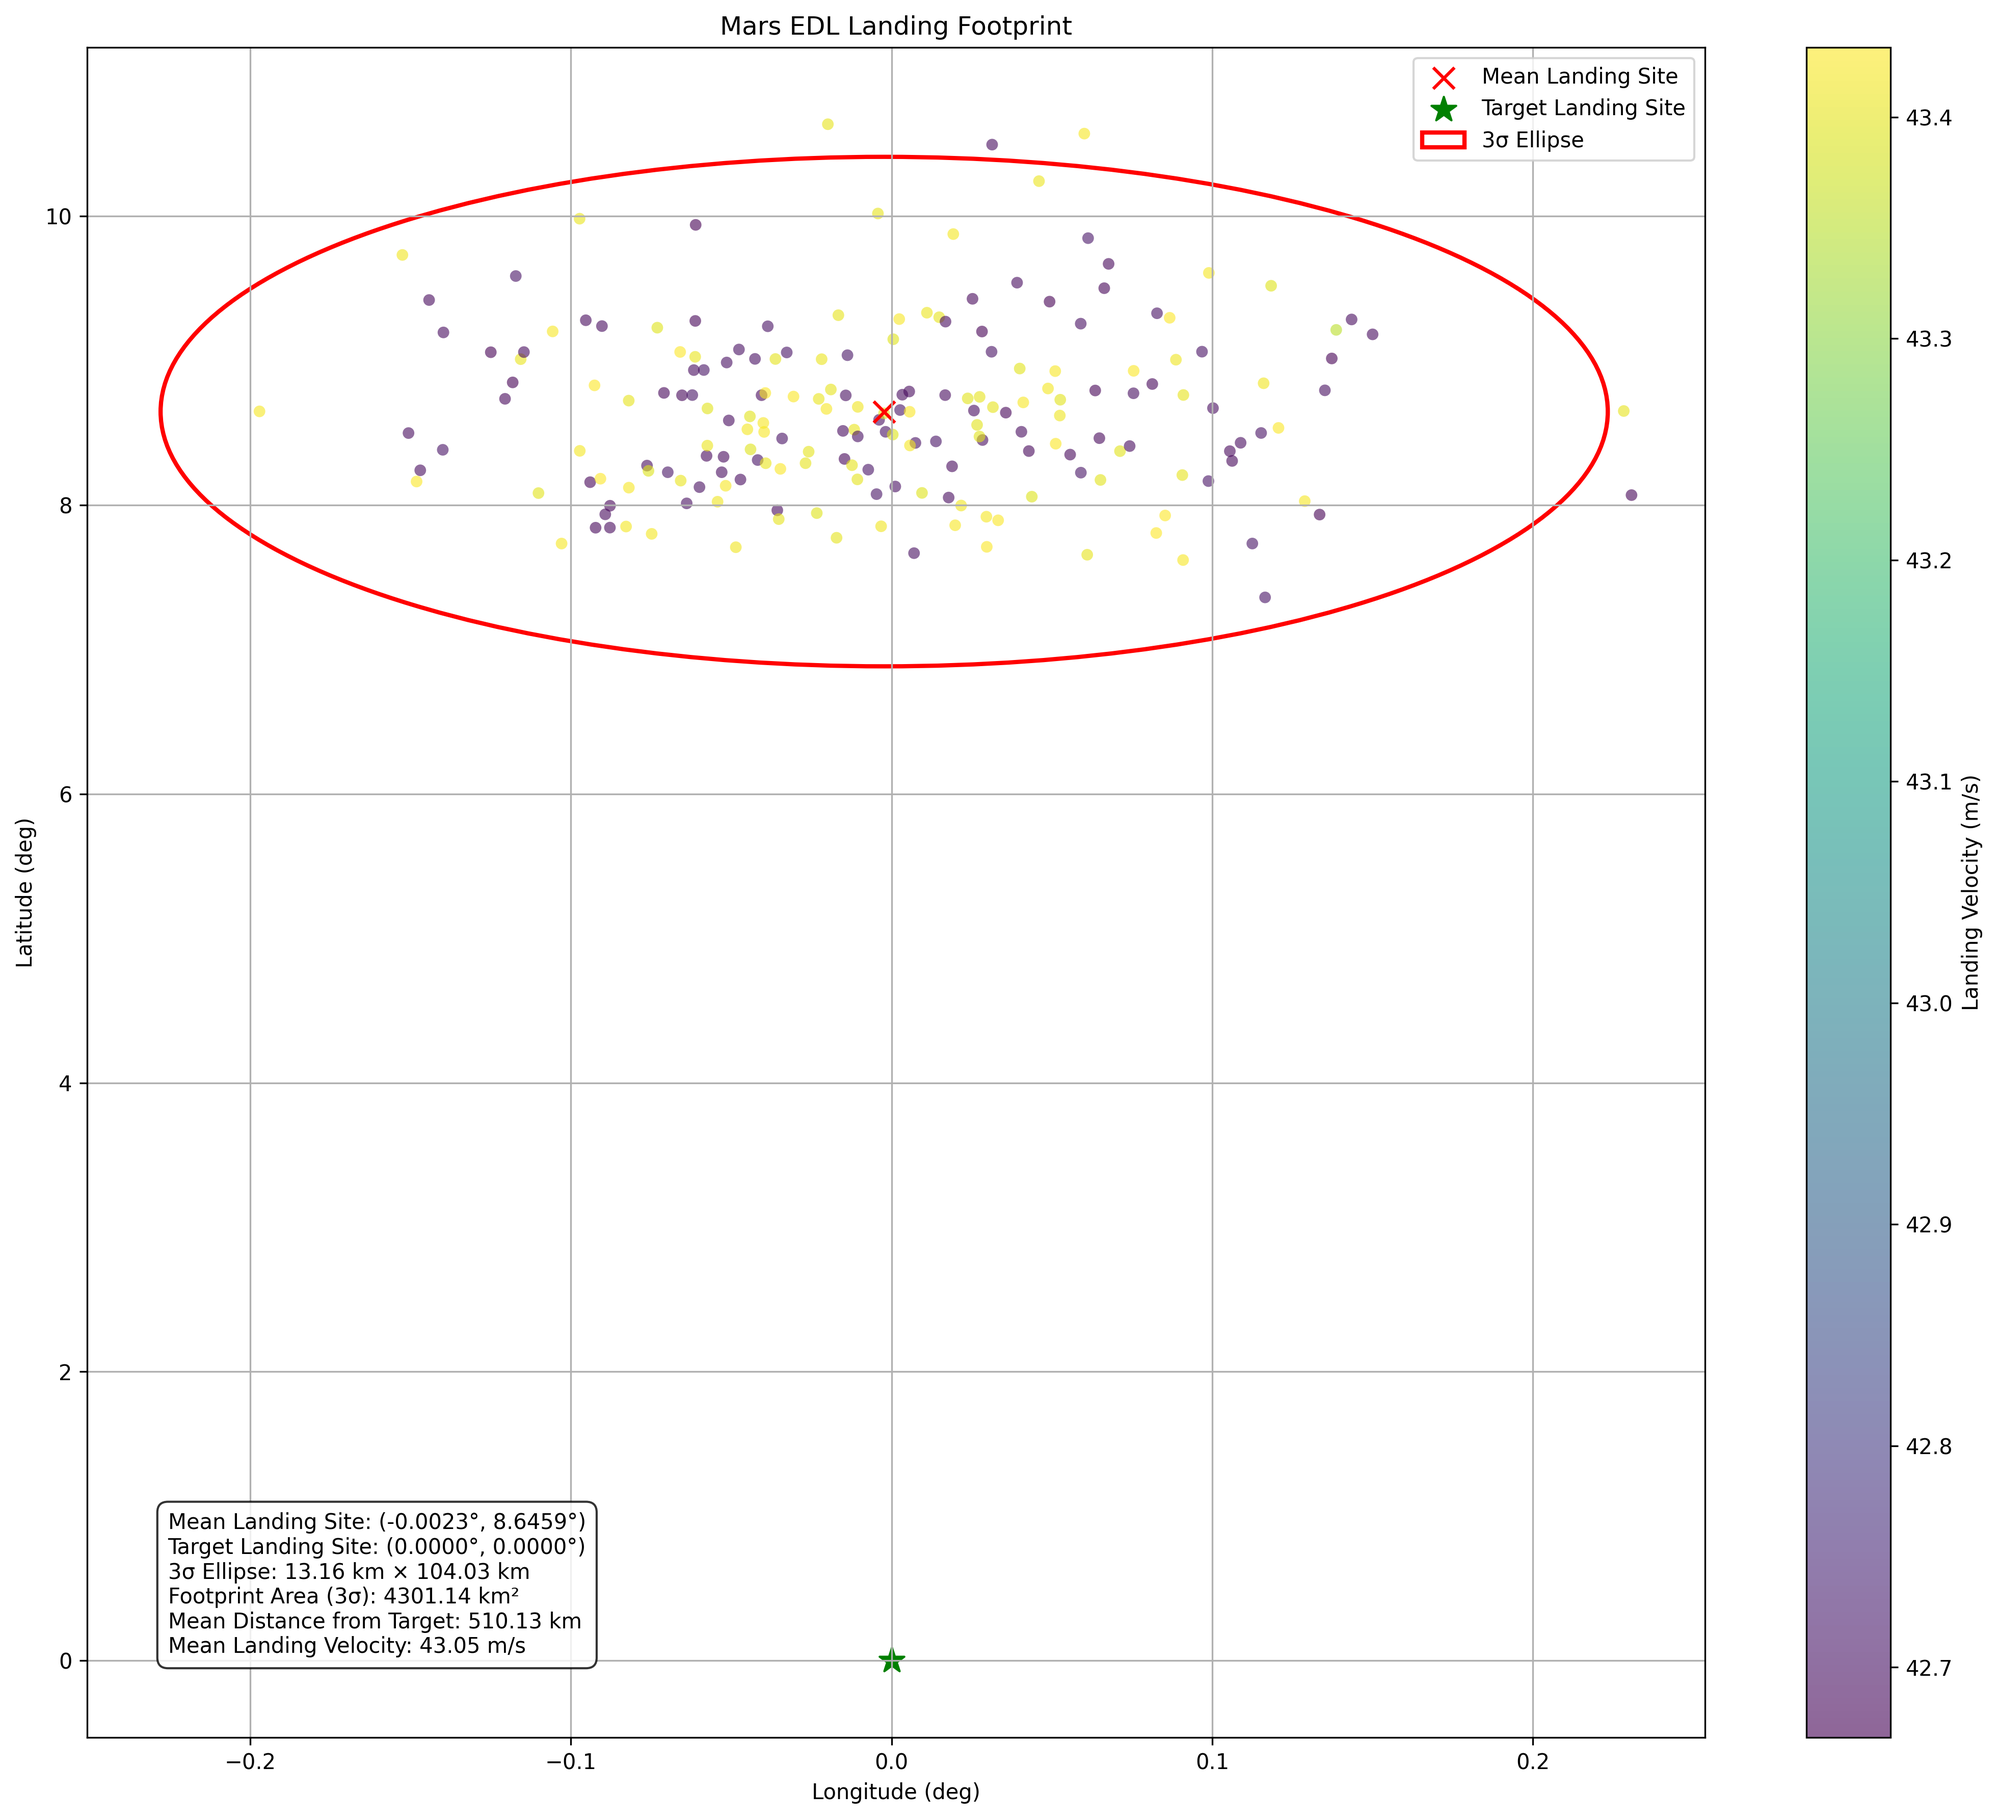
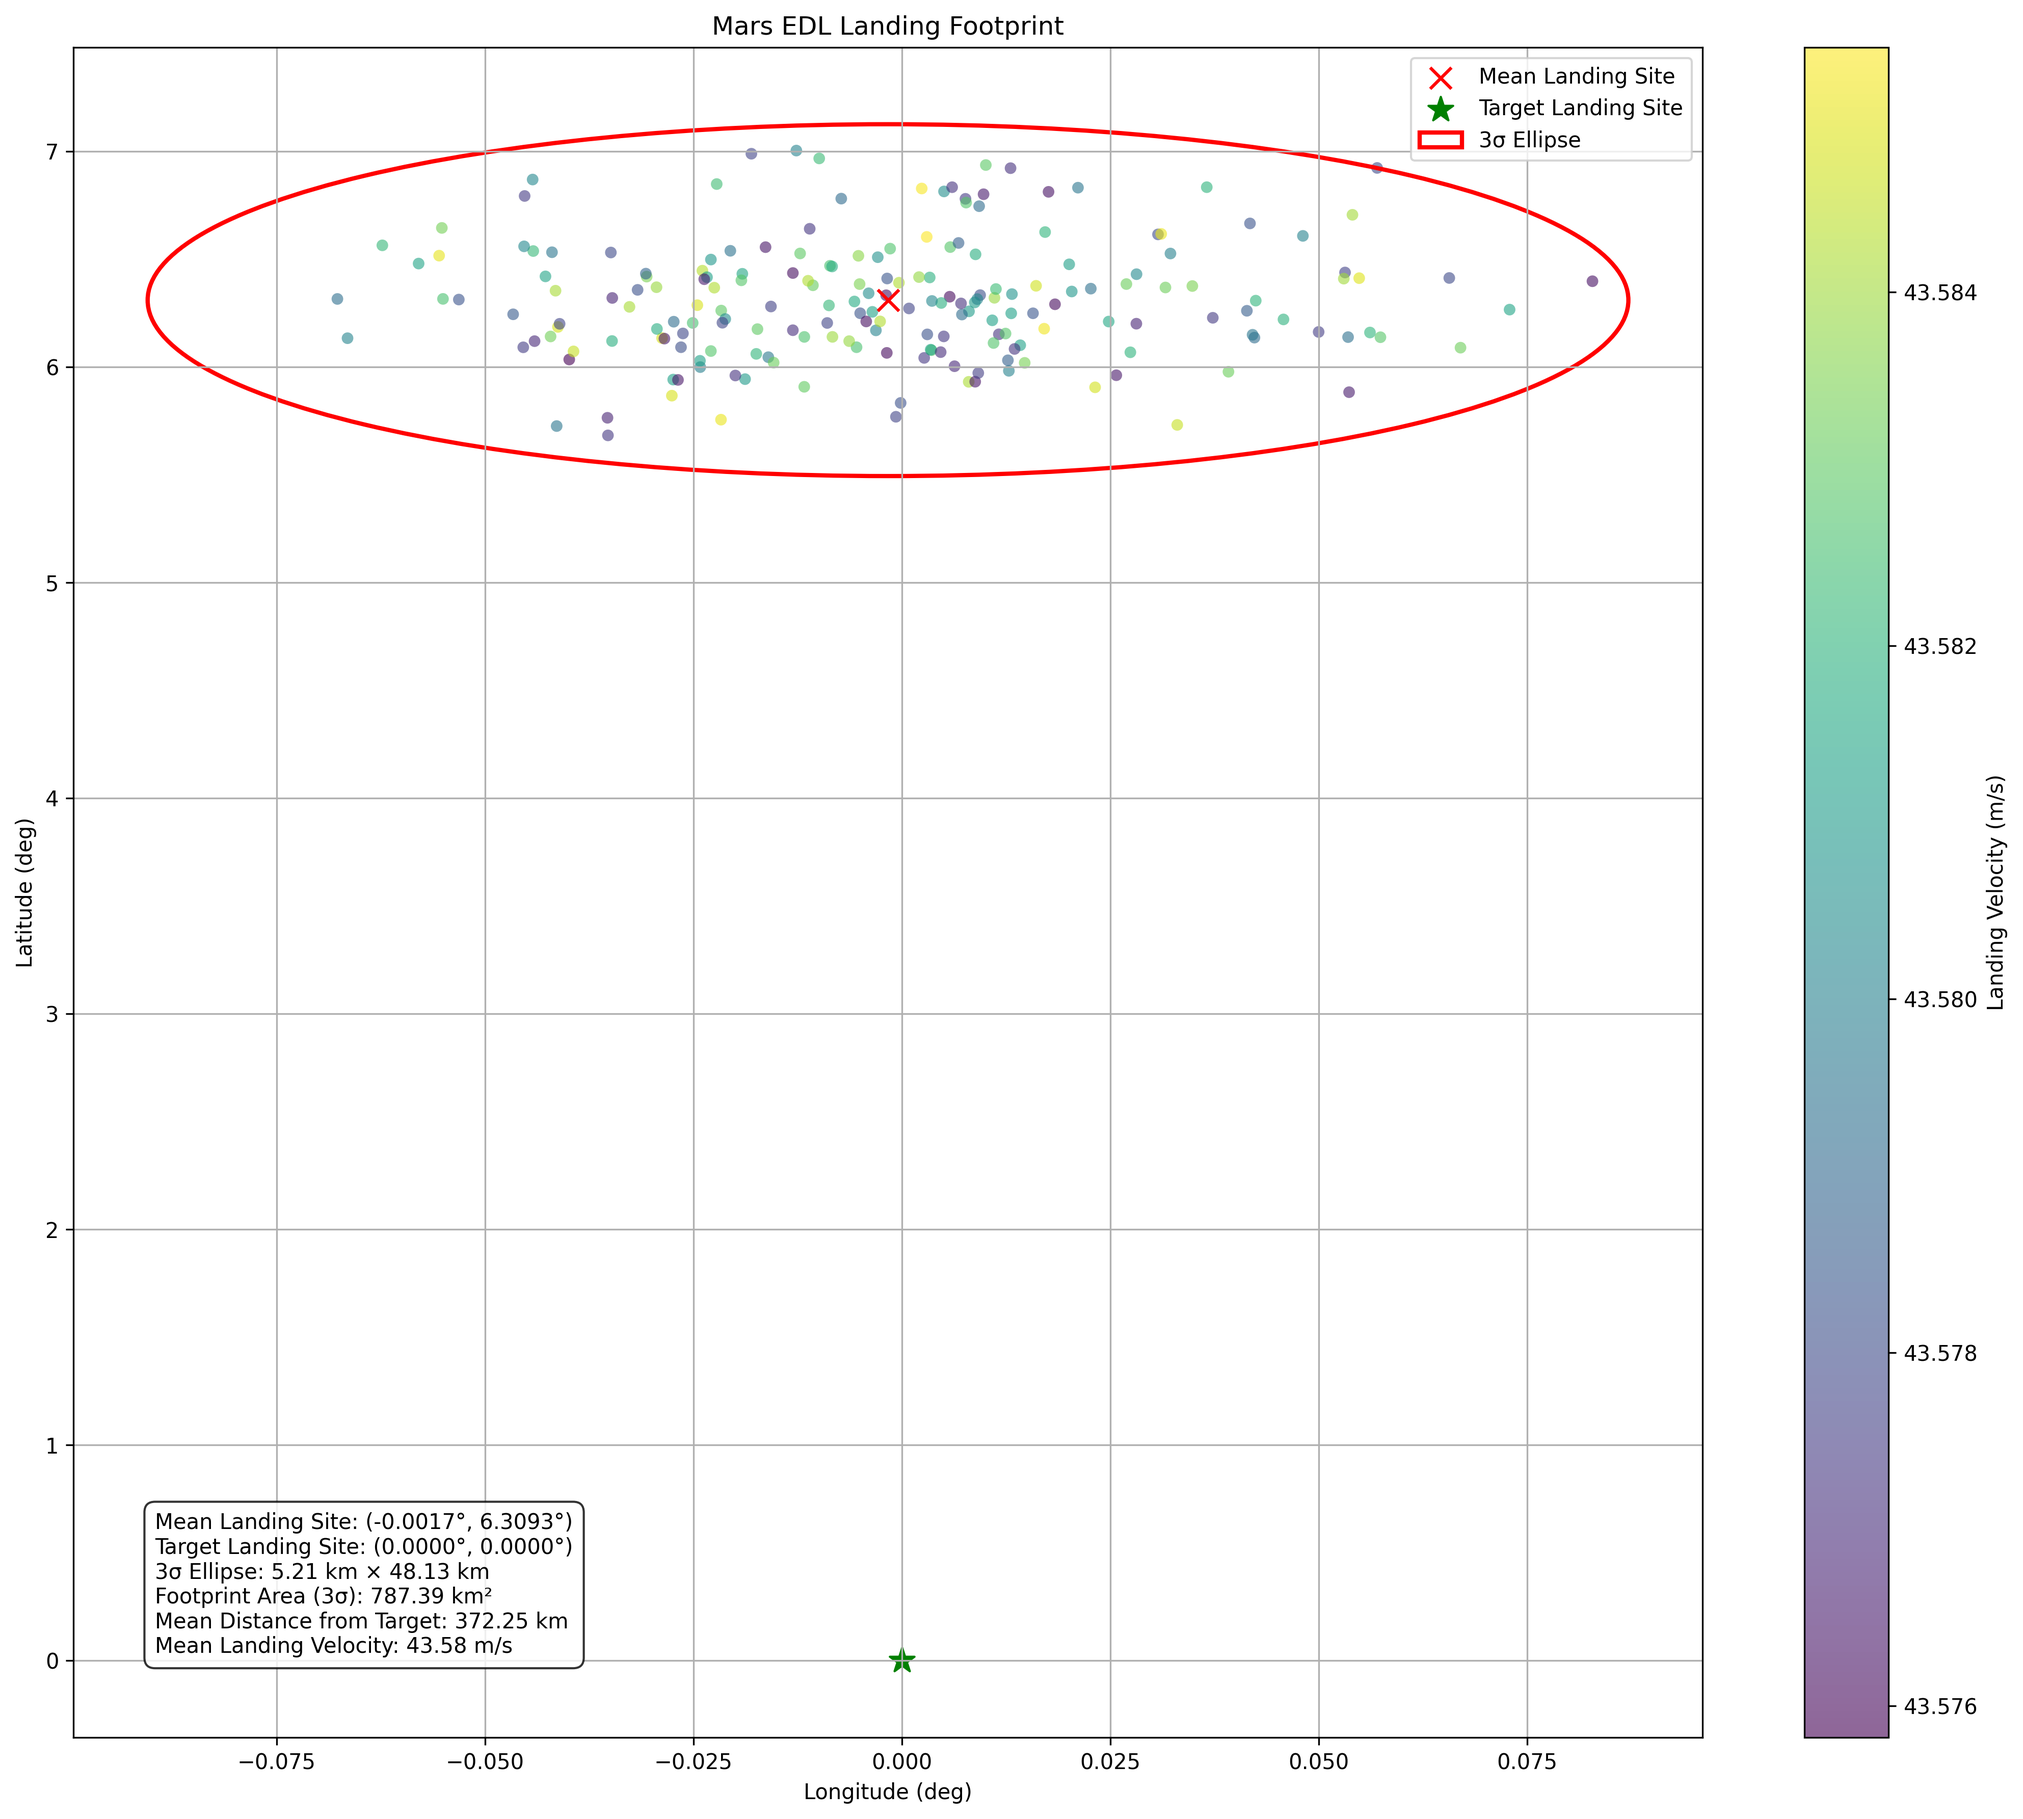
Updting the code and final outputs.

diff --git a/mars_edl_analysis.py b/mars_edl_analysis.py
@@ -77,6 +77,22 @@ class MarsEDLAnalysis:
             print("ASSESSMENT: MODERATE RISK - EDL parameters may need adjustment for improved safety margin.")
         else:
             print("ASSESSMENT: HIGH RISK - EDL parameters should be reconsidered for mission safety.")
+    
+    def calculate_acceleration(self, velocity: np.ndarray, time: np.ndarray) -> np.ndarray:
+        """Calculate acceleration from velocity data using central differences.
+        
+        Args:
+            velocity: Array of velocity values [m/s]
+            time: Array of time values [s]
+            
+        Returns:
+            Array of acceleration values [m/s²]
+        """
+        acceleration = np.zeros_like(velocity)
+        acceleration[0] = (velocity[1] - velocity[0]) / (time[1] - time[0])
+        acceleration[1:-1] = (velocity[2:] - velocity[:-2]) / (time[2:] - time[:-2])
+        acceleration[-1] = (velocity[-1] - velocity[-2]) / (time[-1] - time[-2])
+        return acceleration
 
     def test_hypothesis(self, n_samples=500):
         """Run simulations to test the hypothesis about parachute deployment altitude."""
@@ -94,7 +110,7 @@ class MarsEDLAnalysis:
         
         print("\nRunning hypothesis case with parachute deployment at 50 km...")
         hypothesis_params = nominal_params.copy()
-        hypothesis_params['parachute_deploy_altitude'] = 50000.0
+        hypothesis_params['parachute_deploy_altitude'] = 5000.0
         hypothesis_trajectory = self.simulation.simulate_edl(hypothesis_params)
         self.visualization.plot_trajectory(hypothesis_trajectory, 
                                         title="EDL Trajectory with Parachute at 5 km", 
@@ -103,19 +119,31 @@ class MarsEDLAnalysis:
         hypothesis_results = self.simulation.run_monte_carlo(n_samples, hypothesis_params)
         hypothesis_analysis = self.simulation.analyze_footprint(hypothesis_results)
         
-        def get_post_parachute_velocities(results, trajectory):
+        def get_post_parachute_velocities_acceleration(results, trajectory):
+            deploy_indices = np.where(np.diff(trajectory['parachute_state'] > 0.5))[0]
             deploy_indices = np.where(np.diff(trajectory['parachute_state'] > 0.5))[0]
             if len(deploy_indices) > 0:
                 deploy_idx = deploy_indices[0] + 1
                 post_parachute_velocities = trajectory['velocity'][deploy_idx:]
-                return np.mean(post_parachute_velocities)
-            return np.mean(trajectory['velocity'])  
+                post_parachute_acceleration = self.calculate_acceleration(
+                    trajectory['velocity'][deploy_idx:],
+                    trajectory['time'][deploy_idx:]
+                )
+                return np.mean(post_parachute_velocities), np.mean(np.abs(post_parachute_acceleration))
 
-        nominal_landing_vel = get_post_parachute_velocities(nominal_results, nominal_trajectory)
-        hypothesis_landing_vel = get_post_parachute_velocities(hypothesis_results, hypothesis_trajectory)
-        velocity_increase = (nominal_landing_vel - hypothesis_landing_vel) / nominal_landing_vel * 100
-
+            return np.mean(trajectory['velocity']), np.mean(np.abs(self.calculate_acceleration(trajectory['velocity'], trajectory['time'])))
         
+        nominal_vel_acc_result = get_post_parachute_velocities_acceleration(nominal_results, nominal_trajectory)
+        hypothesis_vel_acc_result = get_post_parachute_velocities_acceleration(hypothesis_results, hypothesis_trajectory)
+        
+        nominal_landing_vel= nominal_vel_acc_result[0]
+        hypothesis_landing_vel = hypothesis_vel_acc_result[0]
+
+        nominal_acceleration = nominal_vel_acc_result[1]
+        hypothesis_acceleration = hypothesis_vel_acc_result[1]
+
+        velocity_increase = (hypothesis_landing_vel - nominal_landing_vel) / nominal_landing_vel * 100
+        acceleration_change = (hypothesis_acceleration - nominal_acceleration) / nominal_acceleration * 100
         
         plt = self.visualization.plot_hypothesis_comparison(
             nominal_landing_vel, hypothesis_landing_vel, nominal_trajectory, hypothesis_trajectory,
@@ -133,14 +161,20 @@ class MarsEDLAnalysis:
         print(f"\nNominal mean landing velocity: {nominal_landing_vel:.2f} m/s")
         print(f"Hypothesis mean landing velocity: {hypothesis_landing_vel:.2f} m/s")
         print(f"Velocity increase: {velocity_increase:.1f}%")
+        print(f"\nNominal mean acceleration: {nominal_acceleration:.2f} m/s²")
+        print(f"Hypothesis mean acceleration: {hypothesis_acceleration:.2f} m/s²")
+        print(f"Acceleration change: {acceleration_change:.1f}%")
         
         
         velocity_hypothesis = abs(velocity_increase) >= 22.0
+        acceleration_hypothesis = abs(acceleration_change) >= 15.0
+
         
         
         print("\nHypothesis validation:")
         print(f"H1 Part 1 - Velocity increase of 22%: {'VALIDATED' if velocity_hypothesis else 'NOT VALIDATED'}")
-        
+        print(f"H1 Part 2 - Acceleration change of 15%: {'VALIDATED' if acceleration_hypothesis else 'NOT VALIDATED'}")
+
         return {
             'nominal_results': nominal_results,
             'nominal_analysis': nominal_analysis,
@@ -148,6 +182,8 @@ class MarsEDLAnalysis:
             'hypothesis_analysis': hypothesis_analysis,
             'velocity_increase': velocity_increase,
             'velocity_hypothesis_validated': velocity_hypothesis,
+            'acceleration_change': acceleration_change,
+            'acceleration_hypothesis_validated': acceleration_hypothesis,
         }
 
 def main():

diff --git a/mars_edl_simulation.py b/mars_edl_simulation.py
@@ -25,12 +25,12 @@ class MarsEDLSimulation:
     # Nominal parameters
     NOMINAL_PARAMS = {
         'entry_gamma_deg': -12.0,     # Entry flight path angle [deg]
-        'entry_altitude': 125000.0,   # Entry altitude [m]
+        'entry_altitude': 80000.0,   # Entry altitude [m]
         'entry_velocity': 5500.0,     # Entry velocity [m/s]
         'entry_lat_deg': 0.0,         # Entry latitude [deg]
         'entry_lon_deg': 0.0,         # Entry longitude [deg]
         'beta': 100.0,                # Ballistic coefficient [kg/m²]
-        'parachute_deploy_altitude': 90000.0,  # Nominal parachute deployment altitude [m]
+        'parachute_deploy_altitude': 15000.0,  # Nominal parachute deployment altitude [m]
         'parachute_cd_s': 400.0,      # Parachute drag coefficient × area [m²]
         'landing_lon': 0.0,           # Target landing longitude [deg]
         'landing_lat': 0.0,           # Target landing latitude [deg]
@@ -63,6 +63,13 @@ class MarsEDLSimulation:
         H = 11.1e3      # Scale height [m]
         alt_clipped = np.maximum(altitude, 0)
         rho = rho0 * np.exp(-alt_clipped / H)
+        return rho
+        if isinstance(altitude, np.ndarray):
+            high_alt_mask = altitude > 50000
+            rho[high_alt_mask] = rho0 * np.exp(-50000/H) * np.exp(-(altitude[high_alt_mask]-50000)/(H*0.6))
+        elif altitude > 50000:
+            rho = rho0 * np.exp(-50000/H) * np.exp(-(altitude-50000)/(H*0.6))
+            
         return rho
 
     @staticmethod
@@ -176,7 +183,7 @@ class MarsEDLSimulation:
         
         return state + (k1 + 2*k2 + 2*k3 + k4) / 6
 
-    def simulate_edl(self, params, dt=0.5, max_steps=20000):
+    def simulate_edl(self, params, dt=0.1, max_steps=20000):
         """Simulate a complete EDL trajectory with given parameters.
         
         Args:
@@ -305,7 +312,7 @@ class MarsEDLSimulation:
                 - parachute_deploy_time: Parachute deployment times [s]
                 - powered_descent_start_time: Powered descent start times [s]
         """
-        
+
         if base_params is None:
             base_params = self.NOMINAL_PARAMS.copy()
         
@@ -314,7 +321,7 @@ class MarsEDLSimulation:
         wind_std = 15.0            # Standard deviation of surface winds [m/s]
         
         if hypothesis == 'parachute_alt':
-            base_params['parachute_deploy_altitude'] = 50000.0
+            base_params['parachute_deploy_altitude'] = 5000.0
         
         
         entry_gamma_samples = np.random.normal(base_params['entry_gamma_deg'], gamma_std, n_samples)

diff --git a/mars_edl_visualization.py b/mars_edl_visualization.py
@@ -307,24 +307,30 @@ class MarsEDLVisualization:
         plt.figure(figsize=(15, 10))
         
         plt.subplot(2, 2, 1)
-        plt.plot(nominal_trajectory['altitude']/1000, nominal_trajectory['velocity'], 'b-', 
-                label=f'Nominal')
-        plt.plot(hypothesis_trajectory['altitude']/1000, hypothesis_trajectory['velocity'], 'r-', 
-                label=f'Hypothesis')
-        
+    
+        # Nominal trajectory processing
         nom_deploy_idx = np.where(np.diff(nominal_trajectory['parachute_state'] > 0.5))[0]
         if len(nom_deploy_idx) > 0:
             nom_deploy_idx = nom_deploy_idx[0] + 1
+            plt.plot(nominal_trajectory['altitude'][nom_deploy_idx:]/1000, 
+                    nominal_trajectory['velocity'][nom_deploy_idx:], 'b-', label='Nominal')
             plt.axvline(nominal_trajectory['altitude'][nom_deploy_idx]/1000, color='b', linestyle='--')
-            
+        else:  # Fallback if no parachute deployment found
+            plt.plot(nominal_trajectory['altitude']/1000, nominal_trajectory['velocity'], 'b-', label='Nominal')
+
+        # Hypothesis trajectory processing
         hyp_deploy_idx = np.where(np.diff(hypothesis_trajectory['parachute_state'] > 0.5))[0]
         if len(hyp_deploy_idx) > 0:
             hyp_deploy_idx = hyp_deploy_idx[0] + 1
+            plt.plot(hypothesis_trajectory['altitude'][hyp_deploy_idx:]/1000, 
+                    hypothesis_trajectory['velocity'][hyp_deploy_idx:], 'r-', label='Hypothesis')
             plt.axvline(hypothesis_trajectory['altitude'][hyp_deploy_idx]/1000, color='r', linestyle='--')
-        
+        else:  
+            plt.plot(hypothesis_trajectory['altitude']/1000, hypothesis_trajectory['velocity'], 'r-', label='Hypothesis')
+
         plt.xlabel('Altitude (km)')
         plt.ylabel('Velocity (m/s)')
-        plt.title('Velocity vs. Altitude Comparison')
+        plt.title('Velocity vs. Altitude Comparison (Post-Parachute Deployment)')  # Updated title
         plt.grid(True)
         plt.legend()
         
@@ -359,7 +365,6 @@ class MarsEDLVisualization:
         plt.subplot(2, 2, 3)
         def extract_post_parachute_velocities(results, trajectory):
             post_parachute_vels = []
-            # Find where parachute deploys in the trajectory
             deploy_indices = np.where(np.diff(trajectory['parachute_state'] > 0.5))[0]
             if len(deploy_indices) > 0:
                 deploy_idx = deploy_indices[0] + 1

diff --git a/README.md b/README.md
@@ -29,6 +29,7 @@ This project employs Monte Carlo simulations to systematically evaluate risks du
 
 To run the nominal EDL simulation and Monte Carlo analysis:
     python mars_edl_analysis.py
+    
 You will be prompted to enter the number of Monte Carlo samples (default: 500). The script will generate trajectory plots, landing footprint visualizations, correlation heatmaps, safety zone diagrams, and a final analysis summary.
 
 ## Hypothesis
